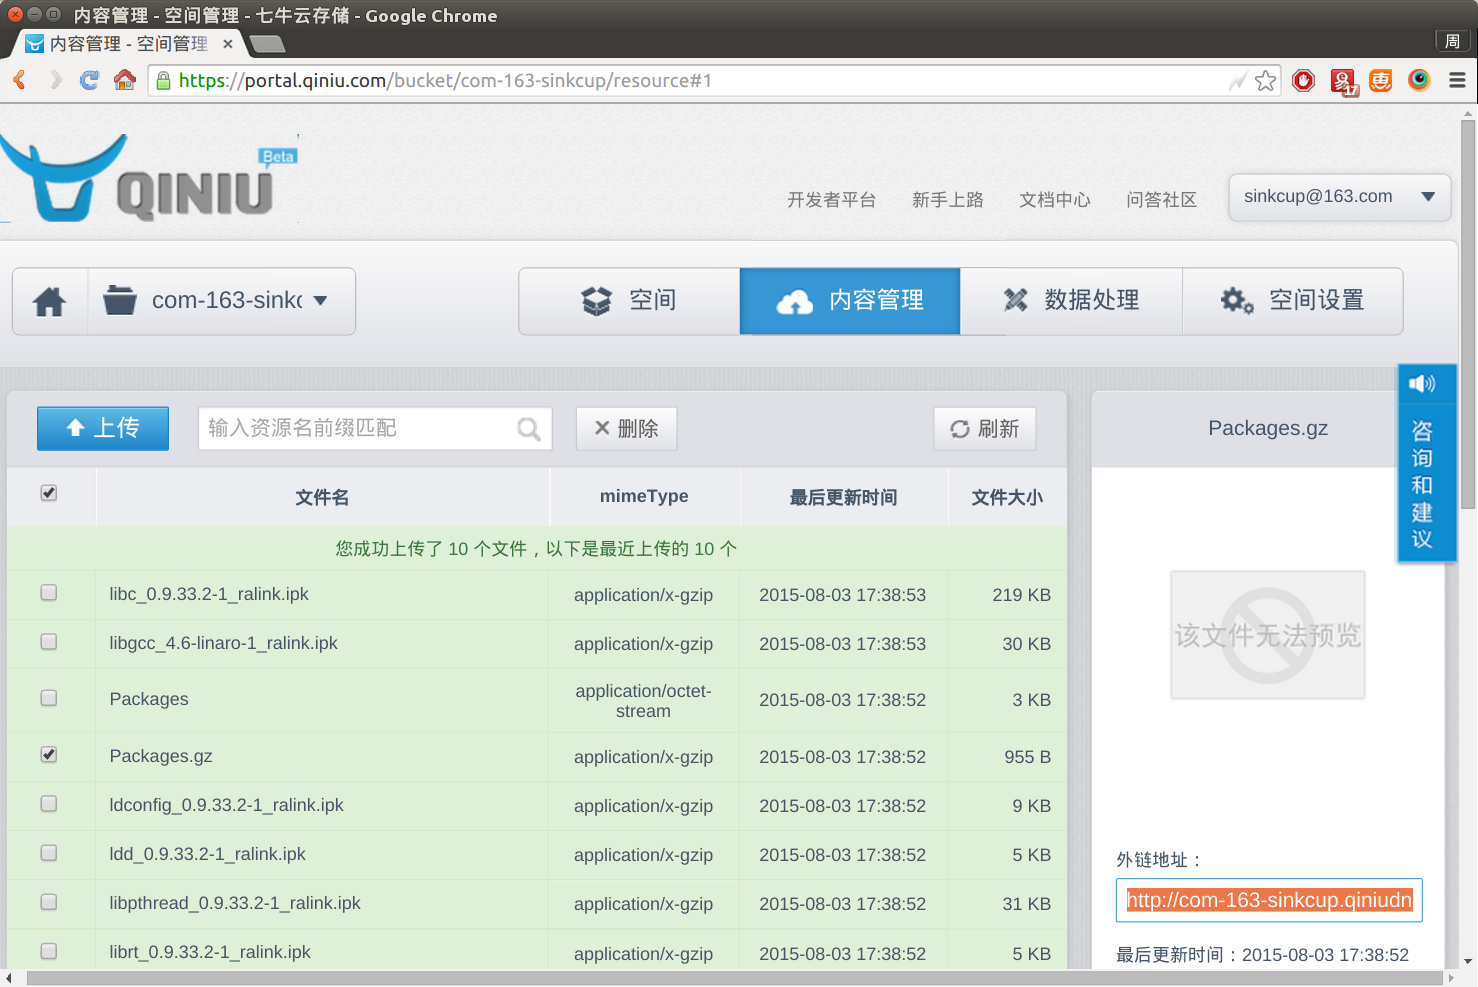
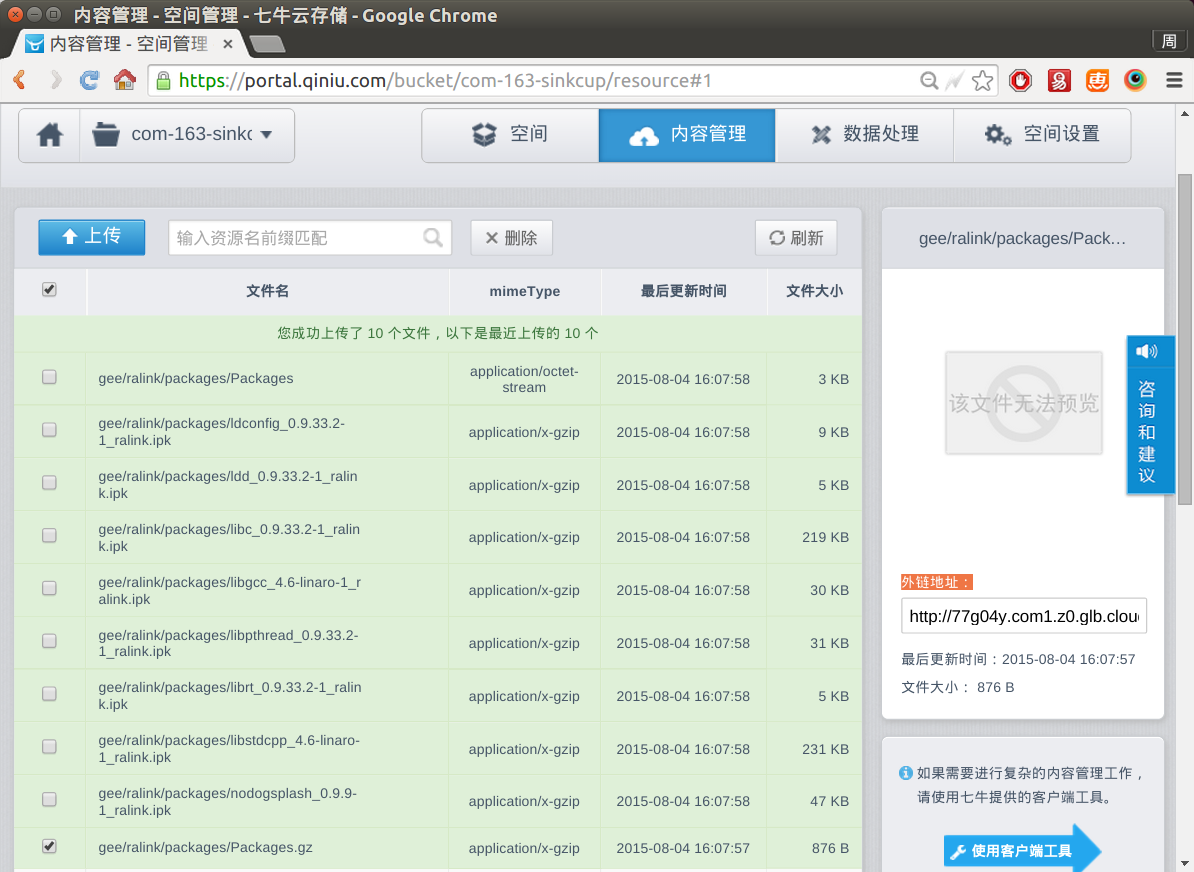
qiniudn.com is down, use new domain; use nodogsplash for demo, not wifidog

diff --git a/docs/docs/create-opkg-package-repository.md b/docs/docs/create-opkg-package-repository.md
@@ -1,4 +1,4 @@
-极路由和优酷都提供了官方opkg软件仓库（package repository），但开发者无法提交新软件进去，一旦需要用的软件不在里面，怎么办？有两个办法：添加到开源仓库 或者 搭建自己的仓库。
+极路由和优酷都提供了官方opkg软件仓库（package repository，又称软件源），但开发者无法提交新软件进去，一旦需要用的软件不在里面，怎么办？有两个办法：添加到开源仓库 或者 搭建自己的仓库。
 
 ## 添加到开源软件仓库
 
@@ -8,9 +8,9 @@
 
 ## 搭建自己的opkg软件仓库
 
-按照之前的文档（[http://openwrt.io/docs/build-a-single-package/](http://openwrt.io/docs/build-a-single-package/)），编译了package，然后查看`bin`目录，会看到里面都是ipk文件，如图：
+按照之前的文档（[http://openwrt.io/docs/build-a-single-package/](http://openwrt.io/docs/build-a-single-package/)），编译了nodogsplash这个package，然后查看`bin`目录，会看到里面都是ipk文件，如图：
 
-![ls bin packages](images/ls-bin-packages.png)
+![ls bin packages](images/ls-bin-packages-nodogsplash.png)
 
 而在路由器中执行`opkg update`时，下载的是仓库里的`Packages.gz`文件，手动下载解压，会发现里面是ipk索引，安装时就是按照`Filename`字段下载了具体的ipk。
 
@@ -29,36 +29,43 @@ cat Package
 按照上面的原理，如果我们生成`Packages.gz`，把它和编译出来的ipk都上传到网上即可实现自己的仓库。生成`Packages.gz`的指令如下：
 
 ```
-cd ~/openwrt/hc5761/
-./scripts/ipkg-make-index.sh bin/ralink/packages/ > bin/ralink/packages/Packages
-gzip -9c bin/ralink/packages/Packages > bin/ralink/packages/Packages.gz
+cd ~/openwrt/hc5761/bin/ralink/packages/
+../../../scripts/ipkg-make-index.sh ./ > ./Packages
+gzip -9c ./Packages > ./Packages.gz
 ```
 
 ![ipkg-make-index.sh](images/ipkg-make-index.png)
 
 ### 上传到七牛云储存
 
-然后上传到哪里？建议放在云储存CDN上，下载速度快，而不要放在自己服务器上。本文以七牛云储存（每月免费10GB流量，官网[qiniu.com](https://portal.qiniu.com/signup?code=3lafkpsz7yes1)）为例，新建一个空间，上传文件，如图：
+然后上传到哪里？建议放在云储存CDN上，下载速度快，而不要放在自己服务器上。本文以七牛云储存（每月免费10GB流量，官网[qiniu.com](https://portal.qiniu.com/signup?code=3lafkpsz7yes1)）为例，新建一个空间，上传文件（建议输入自定义前缀，也就是目录，比如gee/ralink/packages/），如图：
 
 ![qiniu create bucket](images/qiniu-create-bucket.png)
 ![qiniu web upload](images/qiniu-web-upload.png)
 ![qiniu web upload result](images/qiniu-web-upload-result.png)
 
-点击每个文件，右边都会出现外链地址，比如：
+上传完毕，每个文件都有外链地址，比如：
 
 ```
-http://com-163-sinkcup.qiniudn.com/Packages.gz
+http://77g04y.com1.z0.glb.clouddn.com/gee/ralink/packages/Packages.gz
 ```
 
 那对应的opkg设置为：
 
 ```
-src/gz sinkcup http://com-163-sinkcup.qiniudn.com
+src/gz sinkcup http://77g04y.com1.z0.glb.clouddn.com/gee/ralink/packages
 ```
 
-把自己的源加入极路由opkg配置中，然后就能看到新版的wifidog了，如图：
+把自己的源加入极路由opkg配置中，然后就能通过opkg查看和安装nodogsplash了，如图：
 
-![gee opkg add src](images/gee-opkg-add-src.png)
+```
+find /etc/opkg.d/ -name '*.conf' | xargs sed -i '2isrc/gz sinkcup http://77g04y.com1.z0.glb.clouddn.com/gee/ralink/packages'
+opkg update
+opkg list | grep nodog
+opkg install nodogsplash
+```
+
+![gee opkg add src](images/gee-opkg-add-src-install-nodogsplash.png)
 
 <!-- 多说评论框 start -->
 <div class="ds-thread" data-thread-key="docs-create-opkg-package-repository" data-title="搭建自己的opkg软件仓库" data-url="http://openwrt.io/docs/create-opkg-package-repository/"></div>
